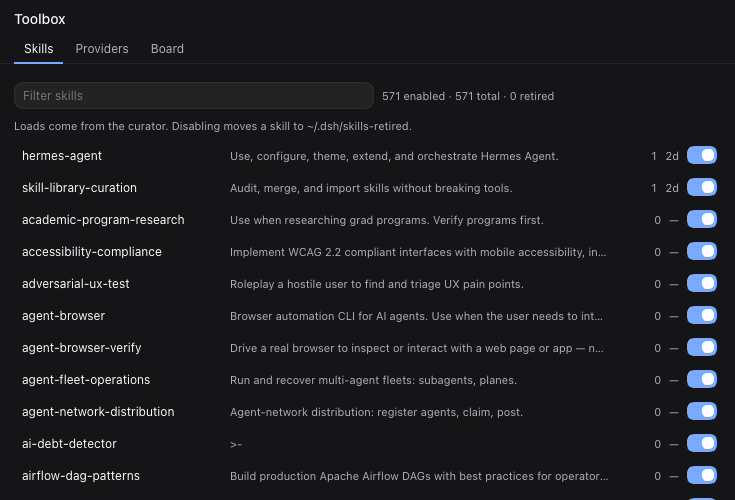
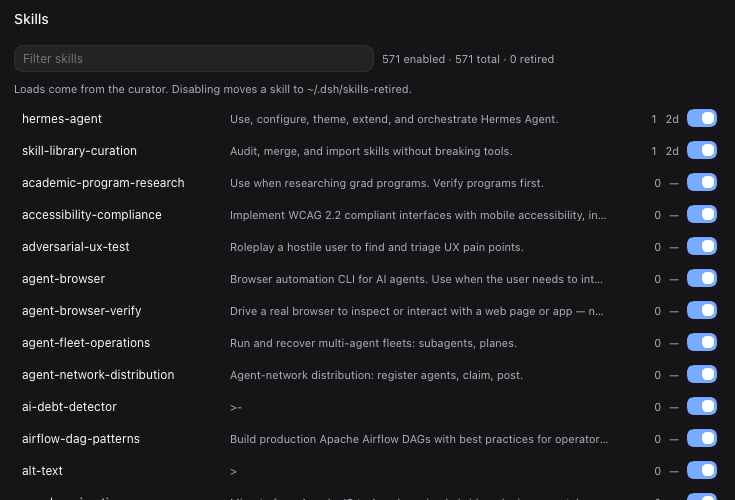
Split Skills, Providers, and Kanban into separate sidebar panels

diff --git a/packages/toolbox/client.js b/packages/toolbox/client.js
@@ -328,6 +328,15 @@ window.__ModuleLoader__.load({
       )
     }
 
+    function KanbanPage({ t }) {
+      return h(
+        'div',
+        { className: 'tbx-page' },
+        h('div', { className: 'tbx-head' }, h('span', { className: 'tbx-title' }, t('kanban.title'))),
+        h('div', { className: 'tbx-body' }, h(BoardTab, { t })),
+      )
+    }
+
     function AddCard({ onAdd, label }) {
       const [text, setText] = useState('')
       return h(
@@ -350,47 +359,25 @@ window.__ModuleLoader__.load({
       )
     }
 
-    function ToolboxPage({ t }) {
-      const [tab, setTab] = useState('skills')
-      const tabs = [
-        { id: 'skills', label: t('tab.skills') },
-        { id: 'providers', label: t('tab.providers') },
-        { id: 'board', label: t('tab.board') },
-      ]
-      const move = (delta) => {
-        const index = tabs.findIndex((entry) => entry.id === tab)
-        const next = tabs[(index + delta + tabs.length) % tabs.length]
-        setTab(next.id)
-      }
+    function SkillsPage({ t }) {
       return h(
         'div',
         { className: 'tbx-page' },
-        h('div', { className: 'tbx-head' }, h('span', { className: 'tbx-title' }, t('panel'))),
-        h(
-          'div',
-          { className: 'tbx-tabs', role: 'tablist', 'aria-label': t('panel'), onKeyDown: (event) => {
-            if (event.key === 'ArrowRight') { event.preventDefault(); move(1) }
-            else if (event.key === 'ArrowLeft') { event.preventDefault(); move(-1) }
-          } },
-          tabs.map((entry) => h('button', {
-            key: entry.id,
-            type: 'button',
-            role: 'tab',
-            className: 'tbx-tab',
-            'aria-selected': tab === entry.id,
-            tabIndex: tab === entry.id ? 0 : -1,
-            onClick: () => setTab(entry.id),
-          }, entry.label)),
-        ),
-        h('div', { className: 'tbx-body', role: 'tabpanel' },
-          tab === 'skills' ? h(SkillsTab, { t }) : null,
-          tab === 'providers' ? h(ProvidersTab, { t }) : null,
-          tab === 'board' ? h(BoardTab, { t }) : null,
-        ),
+        h('div', { className: 'tbx-head' }, h('span', { className: 'tbx-title' }, t('skills.title'))),
+        h('div', { className: 'tbx-body' }, h(SkillsTab, { t })),
       )
     }
 
-    const ToolboxIcon = () => h(
+    function ProvidersPage({ t }) {
+      return h(
+        'div',
+        { className: 'tbx-page' },
+        h('div', { className: 'tbx-head' }, h('span', { className: 'tbx-title' }, t('providers.title'))),
+        h('div', { className: 'tbx-body' }, h(ProvidersTab, { t })),
+      )
+    }
+
+    const SkillsIcon = () => h(
       'svg',
       { width: 16, height: 16, viewBox: '0 0 16 16', 'aria-hidden': 'true' },
       h('path', {
@@ -401,12 +388,37 @@ window.__ModuleLoader__.load({
       }),
     )
 
+    const KanbanIcon = () => h(
+      'svg',
+      { width: 16, height: 16, viewBox: '0 0 16 16', 'aria-hidden': 'true' },
+      h('path', {
+        d: 'M2.5 2.5h3v11h-3zM6.5 2.5h3v7h-3zM10.5 2.5h3v9h-3z',
+        fill: 'none',
+        stroke: 'currentColor',
+        strokeWidth: 1.2,
+      }),
+    )
+
+    const ProvidersIcon = () => h(
+      'svg',
+      { width: 16, height: 16, viewBox: '0 0 16 16', 'aria-hidden': 'true' },
+      h('path', {
+        d: 'M8 2.2 13.8 5 8 7.8 2.2 5zM2.2 8 8 10.8 13.8 8M2.2 11 8 13.8 13.8 11',
+        fill: 'none',
+        stroke: 'currentColor',
+        strokeWidth: 1.1,
+        strokeLinejoin: 'round',
+      }),
+    )
+
     const en = {
       panel: 'Toolbox',
+      'skills.title': 'Skills',
+      'providers.title': 'Providers',
       loading: 'Loading…',
       'tab.skills': 'Skills',
       'tab.providers': 'Providers',
-      'tab.board': 'Board',
+      'kanban.title': 'Kanban',
       'skills.search': 'Filter skills',
       'skills.totals': '{enabled} enabled · {all} total · {retired} retired',
       'skills.note': 'Loads come from the curator. Disabling moves a skill to ~/.dsh/skills-retired.',
@@ -430,10 +442,12 @@ window.__ModuleLoader__.load({
 
     const zh = {
       panel: '工具箱',
+      'skills.title': '技能',
+      'providers.title': '提供商',
       loading: '加载中…',
       'tab.skills': '技能',
       'tab.providers': '提供商',
-      'tab.board': '看板',
+      'kanban.title': '看板',
       'skills.search': '筛选技能',
       'skills.totals': '{enabled} 启用 · {all} 总数 · {retired} 已停用',
       'skills.note': '加载次数来自 curator。停用会把技能移动到 ~/.dsh/skills-retired。',
@@ -458,15 +472,25 @@ window.__ModuleLoader__.load({
     function apply(ctx) {
       ctx.effect(() => ctx.locale.register(NS, { en, zh }), 'toolbox: dictionaries')
       const t = ctx.locale.bind(NS)
-      ctx.slots.inject('sidebar.panellist', () =>
-        ctx.slots.register(
-          { name: 'sidebar.panellist', id: PANEL, order: 24, locale: NS, label: () => t('panel') },
-          ToolboxIcon,
-        ),
-      )
-      ctx.slots.inject('main', () =>
-        ctx.slots.register({ name: 'main', key: PANEL, locale: NS }, ToolboxPage),
-      )
+      const rows = [
+        { key: 'skills', order: 23, label: 'skills.title', icon: SkillsIcon },
+        { key: 'providers', order: 24, label: 'providers.title', icon: ProvidersIcon },
+        { key: 'kanban', order: 25, label: 'kanban.title', icon: KanbanIcon },
+      ]
+      for (const row of rows) {
+        ctx.slots.inject('sidebar.panellist', () =>
+          ctx.slots.register(
+            { name: 'sidebar.panellist', id: row.key, order: row.order, locale: NS, label: () => t(row.label) },
+            row.icon,
+          ),
+        )
+      }
+      const pages = { skills: SkillsPage, providers: ProvidersPage, kanban: KanbanPage }
+      for (const key of Object.keys(pages)) {
+        ctx.slots.inject('main', () =>
+          ctx.slots.register({ name: 'main', key, locale: NS }, pages[key]),
+        )
+      }
     }
 
     return { inject: ['slots', 'locale'], apply }

diff --git a/README.md b/README.md
@@ -30,7 +30,7 @@ Needs `bash`, `python3`, and an existing DSH profile.
 | --- | --- |
 | **Model picker** — [`packages/model-picker`](packages/model-picker) | Replaces the composer's model seat: search with match highlighting, favorites, collapsible provider groups, per-model reasoning levels, and an **Edit models** dialog that decides which models appear at all. |
 | **Projects page** — [`packages/projects-page`](packages/projects-page) | A read-only Projects panel: registry roster, open `TODO.md` items, subfolders, newest sessions, session hover marks. |
-| **Toolbox** — [`packages/toolbox`](packages/toolbox) | One panel, three tabs: a skills manager (curator load counts, enable/disable), provider health (tokens, errors, last used per model), and a kanban board. |
+| **Skills · Providers · Kanban** — [`packages/toolbox`](packages/toolbox) | Three sidebar panels: a skills manager (curator load counts, enable/disable), provider health (tokens, errors, last used per model), and a kanban board. |
 
 ### CLIs — [`tools/dsh-kit`](tools/dsh-kit)
 
@@ -60,18 +60,23 @@ The picker shadows the stock `conversation.input.model` occupant at `priority: -
 
 ![Search across providers](docs/images/search.png)
 
-## Toolbox
+## Skills, Providers, Kanban
+
+Three separate sidebar panels from one package.
+
+![The three sidebar entries](docs/images/sidebar-entries.png)
+
+**Skills** — every skill with its curator load count and last-seen time, a filter, and a switch. Disabling moves the skill to `~/.dsh/skills-retired` and back, because a leading dot does not hide a skill from DSH's catalogue.
 
 ![Skills manager](docs/images/toolbox-skills.png)
 
-- **Skills** — every skill with its curator load count and last-seen time, a filter, and a switch. Disabling moves the skill to `~/.dsh/skills-retired` and back, because a leading dot does not hide a skill from DSH's catalogue.
-- **Providers** — per provider/model totals from the newest 40 session logs: messages, input/output/cache tokens, errors, last used.
+**Providers** — per provider/model totals from the newest 40 session logs: messages, input/output/cache tokens, errors, last used.
 
 ![Provider health](docs/images/toolbox-providers.png)
 
-- **Board** — three columns persisted at `~/.dsh/toolbox/board.json`, drag-and-drop, add and remove.
+**Kanban** — three columns persisted at `~/.dsh/toolbox/board.json`, drag-and-drop, add and remove.
 
-![Board](docs/images/toolbox-board.png)
+![Kanban board](docs/images/toolbox-kanban.png)
 
 ## The Projects page
 

diff --git a/packages/toolbox/README.md b/packages/toolbox/README.md
@@ -1,6 +1,6 @@
 # @dsh-local/toolbox
 
-A Toolbox panel for DeepSeek Harness: skills manager, provider health, and a kanban board — one sidebar row, three tabs.
+A Toolbox package for DeepSeek Harness that registers three separate sidebar panels: Skills, Providers, and Kanban.
 
 - **Skills** — every skill in `~/.dsh/skills` plus the retired set in `~/.dsh/skills-retired`, with the curator's load count and last-seen time, a filter, and a switch that moves a skill between the two directories. Disabling is a directory move, because a leading dot does not hide a skill from DSH's catalogue.
 - **Providers** — per provider/model totals read from the newest 40 session logs (concatenated zstd JSONL): messages, input/output/cache tokens, error count, last used. Cached for a minute on the Host.
